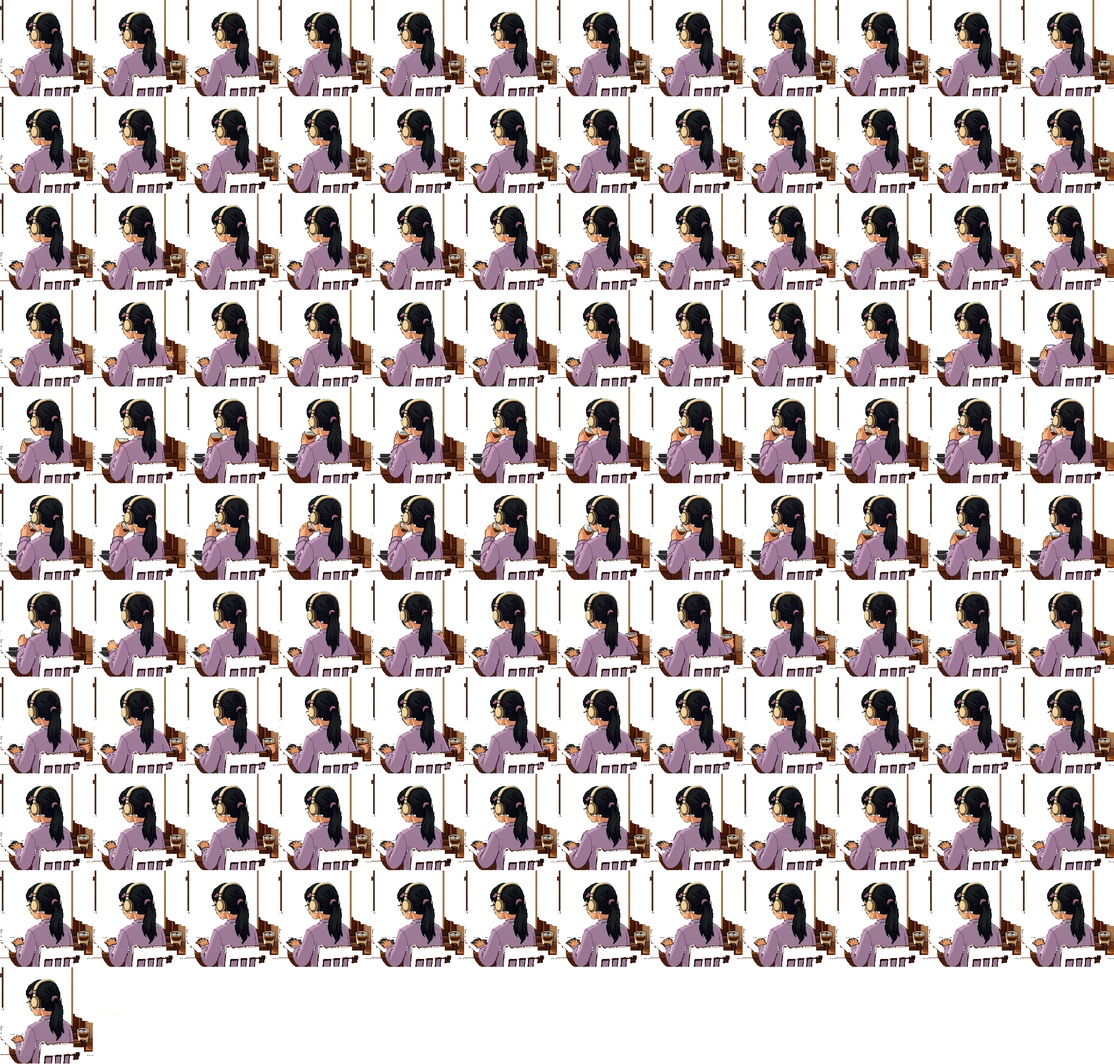
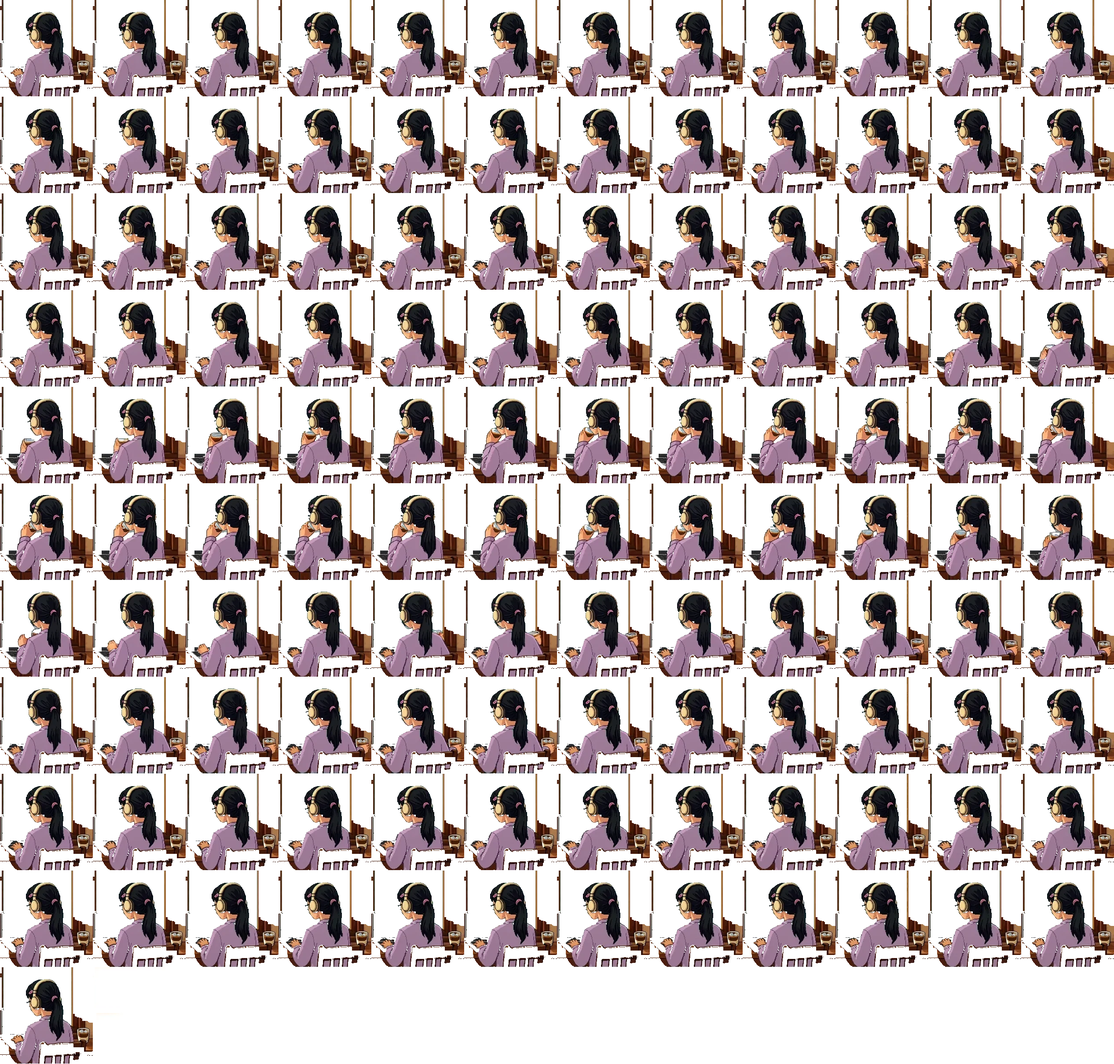
fixed: /chill at the Café window her laptop no longer looks like it is missing pixels on its left edge, and both laptop fixes now reach returning visitors right away. In every frame of her video a dark patch sat on the bright rim along the left side of the lid in its lower half and wiped the thin da

diff --git a/src/components/chill/themes.ts b/src/components/chill/themes.ts
@@ -12,6 +12,10 @@
 // nội thất + video riêng, cùng toạ độ với bản nam (scripts/chill-girl-cafe-art.py).
 // Cả 3 phòng đều có bản nữ; phòng nào thiếu `girl` thì luôn là nam.
 
+// Tranh sửa lại mà giữ tên file thì tăng `?v=` của đường dẫn đó: service worker của /chill
+// (public/chill-sw.js) trả bản đã lưu trước rồi mới tải bản mới, nên không đổi URL thì khách cũ
+// vẫn thấy tranh cũ ở lần mở đầu.
+
 import type {Bulb} from './string-lights'
 import type {ToySpot} from './wand'
 
@@ -143,13 +147,13 @@ export const THEMES: Theme[] = [
       character: {
         kind: 'video',
         at: {x: 429, y: 116, w: 211, h: 220},
-        hi: {src: '/chill/scenes/interior-girl-loop@2x.webp', scale: 2, cols: 10, frames: 81, fps: 8},
-        lo: {src: '/chill/scenes/interior-girl-loop.webp', scale: 1, cols: 12, frames: 121, fps: 12},
+        hi: {src: '/chill/scenes/interior-girl-loop@2x.webp?v=2', scale: 2, cols: 10, frames: 81, fps: 8},
+        lo: {src: '/chill/scenes/interior-girl-loop.webp?v=2', scale: 1, cols: 12, frames: 121, fps: 12},
         duration: 121 / 12,
         sip: [2.4, 7.7],
         noel: {
-          hi: '/chill/scenes/interior-girl-loop-noel@2x.webp',
-          lo: '/chill/scenes/interior-girl-loop-noel.webp',
+          hi: '/chill/scenes/interior-girl-loop-noel@2x.webp?v=2',
+          lo: '/chill/scenes/interior-girl-loop-noel.webp?v=2',
           glow: {src: '/chill/scenes/interior-girl-loop-glow.webp', scale: 1, cols: 10, frames: 81, fps: 8},
         },
       },
@@ -266,19 +270,19 @@ export const THEMES: Theme[] = [
     // Bản nữ (scripts/chill-girl-room-art.py): ô cao hơn ô nam 10 px gốc cho đỉnh tóc, rộng hơn
     // 8 px bên trái cho bàn tay; lòng màn trong ảnh tĩnh và trong từng khung đều trong suốt
     girl: {
-      interior: '/chill/scenes/room-desk-girl.webp',
+      interior: '/chill/scenes/room-desk-girl.webp?v=2',
       // Ảnh thẻ chọn phòng khi khách chọn Chị (ảnh thẻ của anh, thay vùng người ngồi)
       thumb: '/chill/scenes/room-desk-girl-thumb.webp',
       character: {
         kind: 'video',
         at: {x: 429, y: 131, w: 211, h: 207},
-        hi: {src: '/chill/scenes/room-desk-girl-loop@2x.webp', scale: 2, cols: 10, frames: 81, fps: 8},
-        lo: {src: '/chill/scenes/room-desk-girl-loop.webp', scale: 1, cols: 12, frames: 121, fps: 12},
+        hi: {src: '/chill/scenes/room-desk-girl-loop@2x.webp?v=2', scale: 2, cols: 10, frames: 81, fps: 8},
+        lo: {src: '/chill/scenes/room-desk-girl-loop.webp?v=2', scale: 1, cols: 12, frames: 121, fps: 12},
         duration: 121 / 12,
         sip: [1.67, 8.5],
         noel: {
-          hi: '/chill/scenes/room-desk-girl-loop-noel@2x.webp',
-          lo: '/chill/scenes/room-desk-girl-loop-noel.webp',
+          hi: '/chill/scenes/room-desk-girl-loop-noel@2x.webp?v=2',
+          lo: '/chill/scenes/room-desk-girl-loop-noel.webp?v=2',
           glow: {src: '/chill/scenes/room-desk-girl-loop-glow.webp', scale: 1, cols: 10, frames: 81, fps: 8},
         },
       },

diff --git a/scripts/chill-girl-laptop-edge.py b/scripts/chill-girl-laptop-edge.py
@@ -1,0 +1,117 @@
+#!/usr/bin/env python3
+# Vá viền trái nắp laptop của người ngồi nữ (/chill) ở mọi phòng có laptop.
+#
+# - Cửa sổ quán: ảnh tĩnh interior-girl.webp có viền đúng (vạch sáng thẳng, nét tối ngoài cùng),
+#   nhưng từ bản đầu (6cb6a4e) mỗi khung video có pixel tối đặc đè lên vạch đó ở y 498–519 và
+#   528–536 (px 1280) và xoá nét tối ngoài ở y 465–518. Khung lấy lại dải viền của ảnh tĩnh.
+# - Bàn đêm: ảnh Nano vẽ viền dày 3 px tới y 499 rồi chỉ còn 1 px xám mờ tới góc dưới, ở cả ảnh
+#   tĩnh lẫn mọi khung. Chép hàng còn nguyên ngay phía trên (y 496) xuống đoạn đứt, cho ảnh tĩnh
+#   và cho từng khung (khung ghép đúng như scene.ts vẽ rồi ghi lại dạng đặc, nên mặt nạ / chỗ
+#   trong suốt không lộ lỗ).
+# Không ai đi ngang dải viền này (tay ở bàn phím, ly ở bên phải), nên vá như nhau cho mọi khung,
+# cả sheet thường lẫn Noel, màn rộng (×2) lẫn điện thoại (×1).
+#
+#   python3 scripts/chill-girl-laptop-edge.py [--room cafe|desk]
+#
+# Sửa tại chỗ trong public/chill/scenes; chạy lại không vẽ chồng (nguồn vá nằm ngoài đoạn vá).
+# Đổi file xong thì tăng `?v=` của các đường dẫn đó trong themes.ts: service worker của /chill
+# (public/chill-sw.js) trả tranh đã lưu trước rồi mới tải bản mới, nên không đổi URL thì khách cũ
+# vẫn thấy tranh cũ ở lần mở đầu. Cần numpy, Pillow.
+
+import argparse
+import os
+
+import numpy as np
+from PIL import Image
+
+ROOT = os.path.dirname(os.path.dirname(os.path.abspath(__file__)))
+SCENES = os.path.join(ROOT, 'public', 'chill', 'scenes')
+BG = np.array([26, 21, 32], float)  # nền canvas của scene.ts
+
+ROOMS = {
+    'cafe': {
+        'interior': 'interior-girl.webp',
+        'at': (858, 232, 422, 440),  # themes.ts girl `character.at` × 2, px 1280
+        'band': (858, 868, 428, 538),  # x0, x1, y0, y1 (px 1280)
+        'from': 'still',  # dải viền lấy từ ảnh tĩnh (ảnh tĩnh không sửa)
+        'sheet': 'interior-girl-loop',
+    },
+    'desk': {
+        'interior': 'room-desk-girl.webp',
+        'at': (858, 262, 422, 414),
+        'band': (862, 866, 500, 538),
+        'from': 496,  # chép hàng này xuống cả dải (ảnh tĩnh cũng vá)
+        'sheet': 'room-desk-girl-loop',
+    },
+}
+# hậu tố, tỉ lệ so với px 1280, số cột, số khung, chất lượng webp (như lúc tạo sheet)
+SHEETS = [('@2x', 1, 10, 81, 88), ('', 2, 12, 121, 88), ('-noel@2x', 1, 10, 81, 92), ('-noel', 2, 12, 121, 92)]
+
+
+def load(name):
+    return np.asarray(Image.open(os.path.join(SCENES, name)).convert('RGBA')).astype(float)
+
+
+def save(a, name, q):
+    path = os.path.join(SCENES, name)
+    Image.fromarray(a.round().clip(0, 255).astype(np.uint8)).save(
+        path, 'WEBP', quality=q, alpha_quality=100, method=6, exact=True)
+    print(name, os.path.getsize(path))
+
+
+def shrink(a, d):
+    if d == 1:
+        return a
+    h, w = a.shape[0] // d, a.shape[1] // d
+    return a[:h * d, :w * d].reshape(h, d, w, d, a.shape[2]).mean((1, 3))
+
+
+def fix(room):
+    cfg = ROOMS[room]
+    interior = load(cfg['interior'])
+    orig = interior.copy()
+    x0, x1, y0, y1 = cfg['band']
+    if cfg['from'] != 'still':
+        interior[y0:y1, x0:x1] = interior[cfg['from'], x0:x1]
+        save(interior, cfg['interior'], 90)
+
+    ax, ay, aw, ah = cfg['at']
+    for suffix, d, cols, frames, q in SHEETS:
+        name = cfg['sheet'] + suffix + '.webp'
+        sheet = load(name)
+        cw, ch = aw // d, ah // d
+        cx0, cx1 = (x0 - ax) // d, -(-(x1 - ax) // d)
+        cy0, cy1 = (y0 - ay) // d, -(-(y1 - ay) // d)
+        if cfg['from'] == 'still':
+            # dải viền của ảnh tĩnh, thu về cỡ sheet
+            still = shrink(orig[ay:ay + ah, ax:ax + aw], d)[cy0:cy1, cx0:cx1]
+        else:
+            sy = (cfg['from'] - ay) // d
+            mask = sheet[(frames // cols) * ch:(frames // cols) * ch + ch,
+                         (frames % cols) * cw:(frames % cols) * cw + cw, 3] / 255
+            under = shrink(orig[ay:ay + ah, ax:ax + aw], d)
+            under[..., 3] *= 1 - mask
+        for i in range(frames):
+            r, c = (i // cols) * ch, (i % cols) * cw
+            cell = sheet[r:r + ch, c:c + cw]
+            if cfg['from'] == 'still':
+                cell[cy0:cy1, cx0:cx1, :3] = still[..., :3]
+            else:
+                fa, ua = cell[..., 3:4] / 255, under[..., 3:4] / 255
+                comp = cell[..., :3] * fa + (under[..., :3] * ua + BG * (1 - ua)) * (1 - fa)
+                cell[cy0:cy1, cx0:cx1, :3] = comp[sy, cx0:cx1]
+            cell[cy0:cy1, cx0:cx1, 3] = 255
+        save(sheet, name, q)
+
+
+def main():
+    ap = argparse.ArgumentParser()
+    ap.add_argument('--room', choices=list(ROOMS))
+    args = ap.parse_args()
+    for room in ROOMS:
+        if not args.room or args.room == room:
+            fix(room)
+
+
+if __name__ == '__main__':
+    main()
